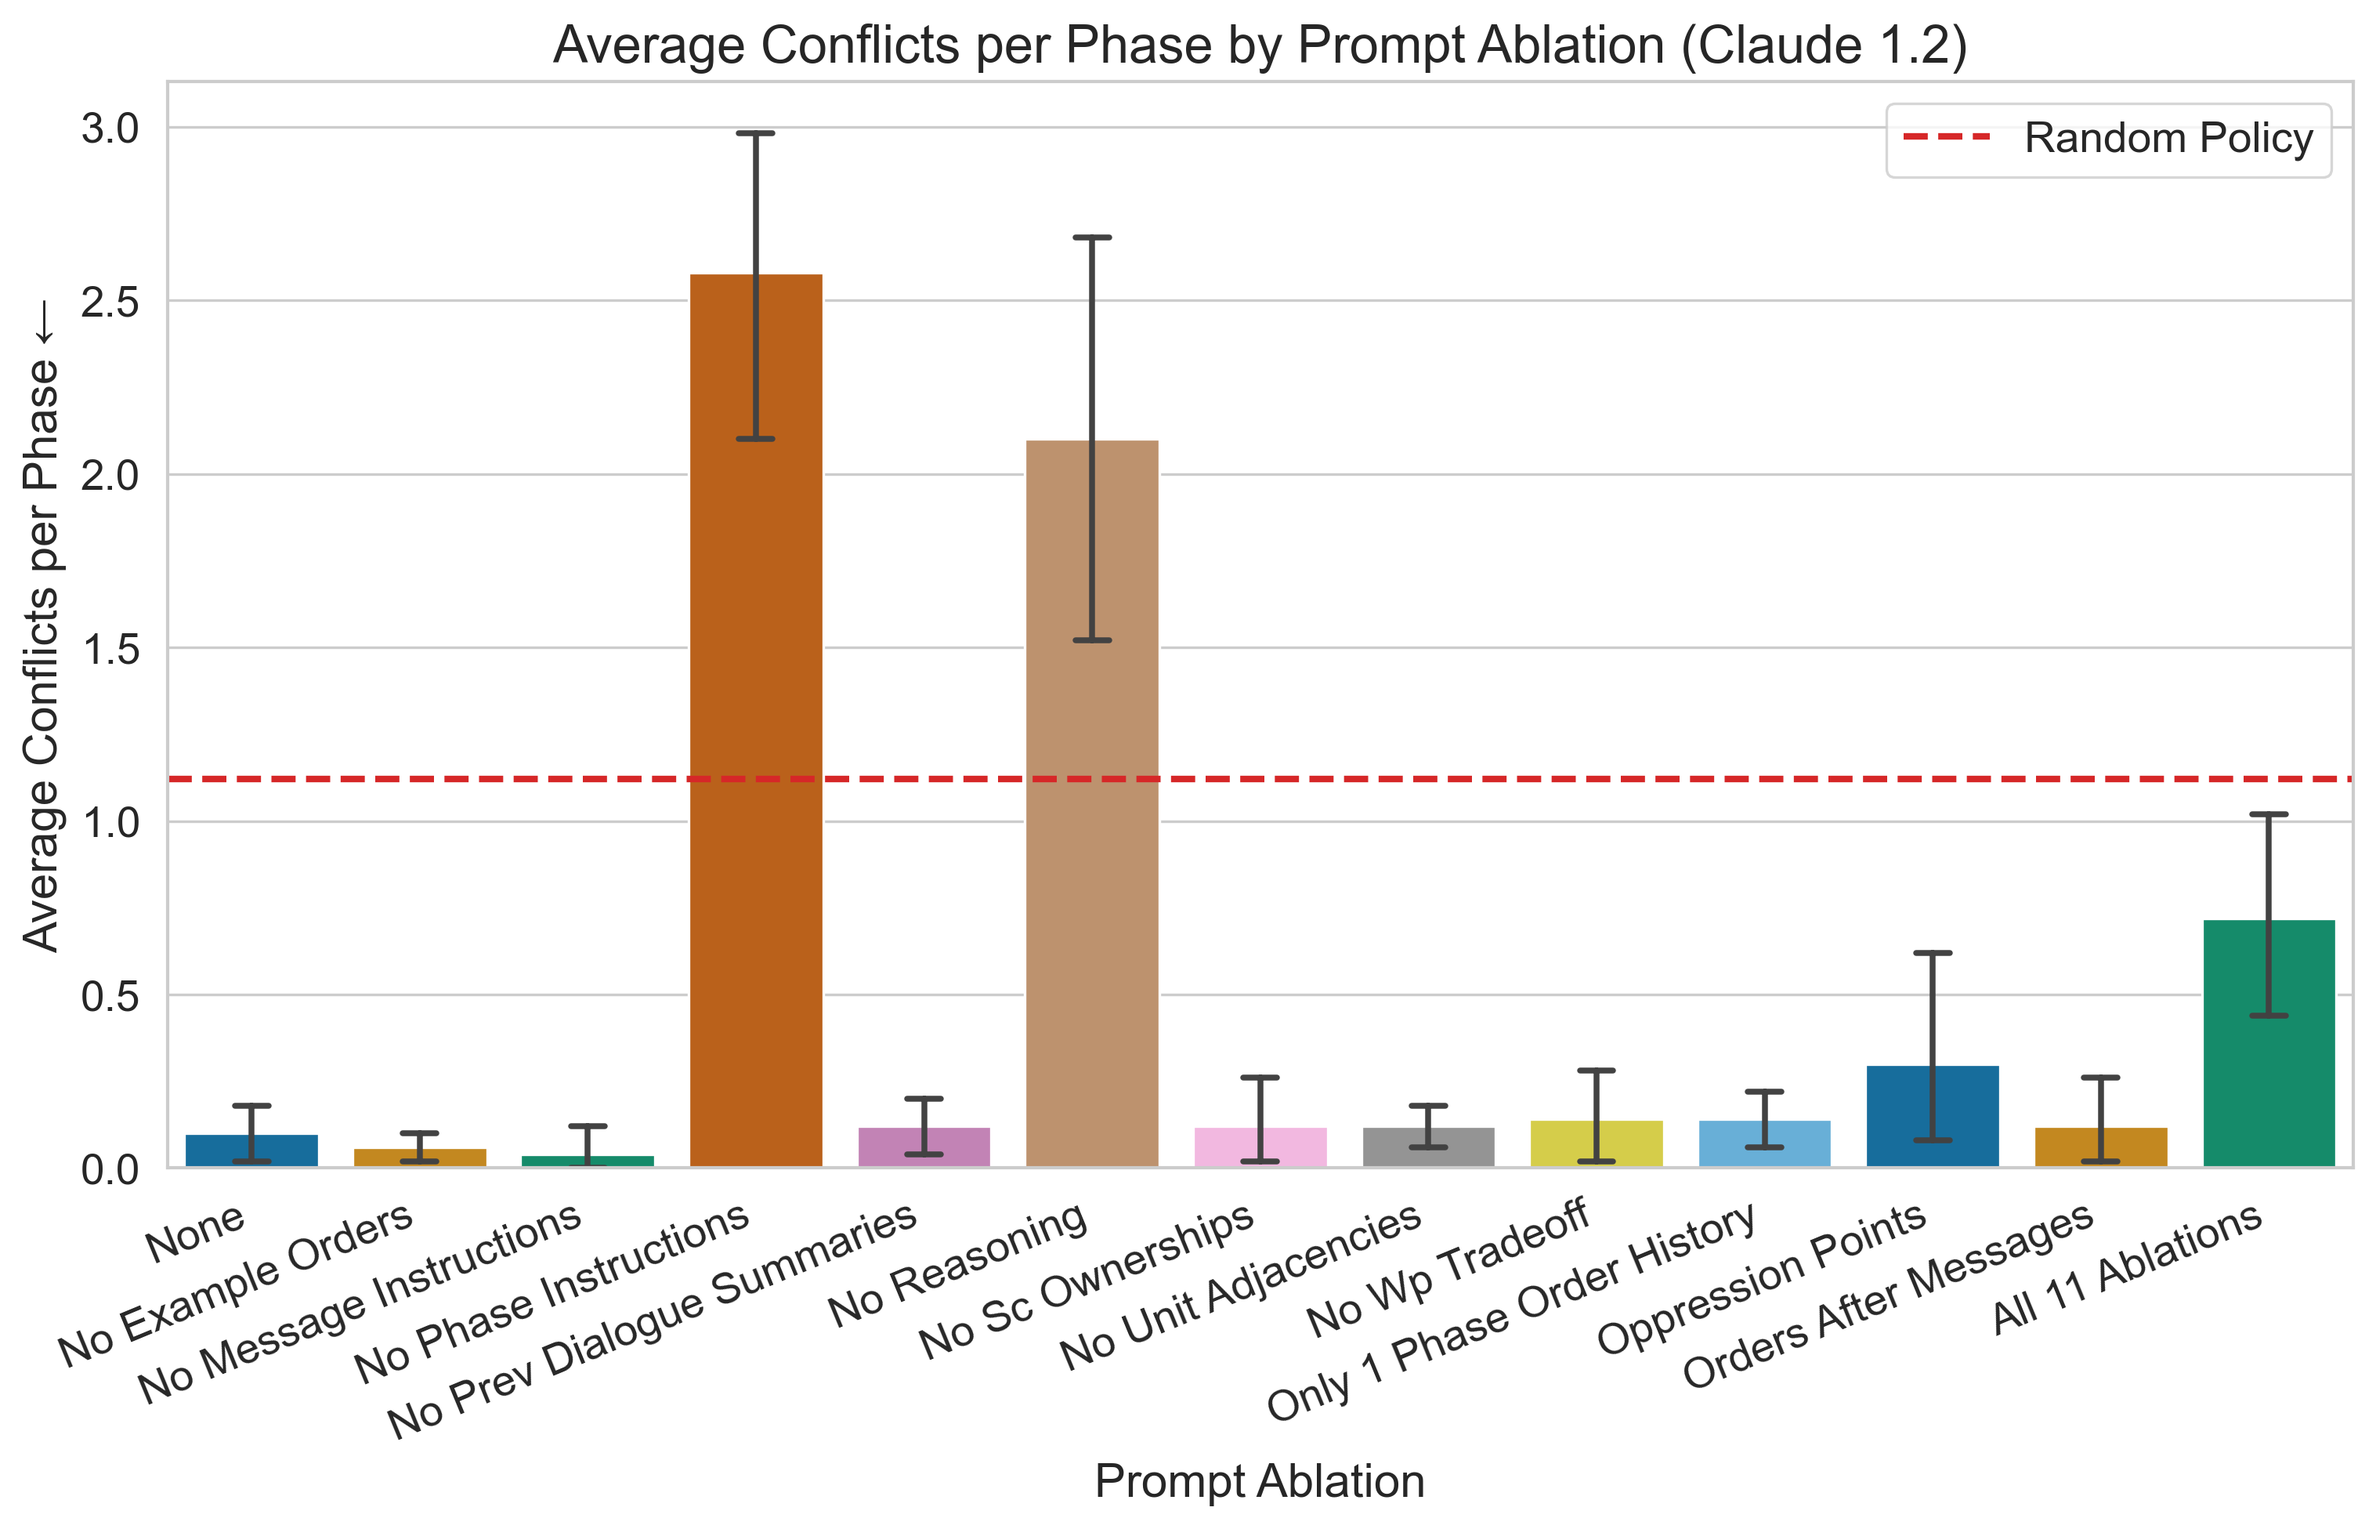
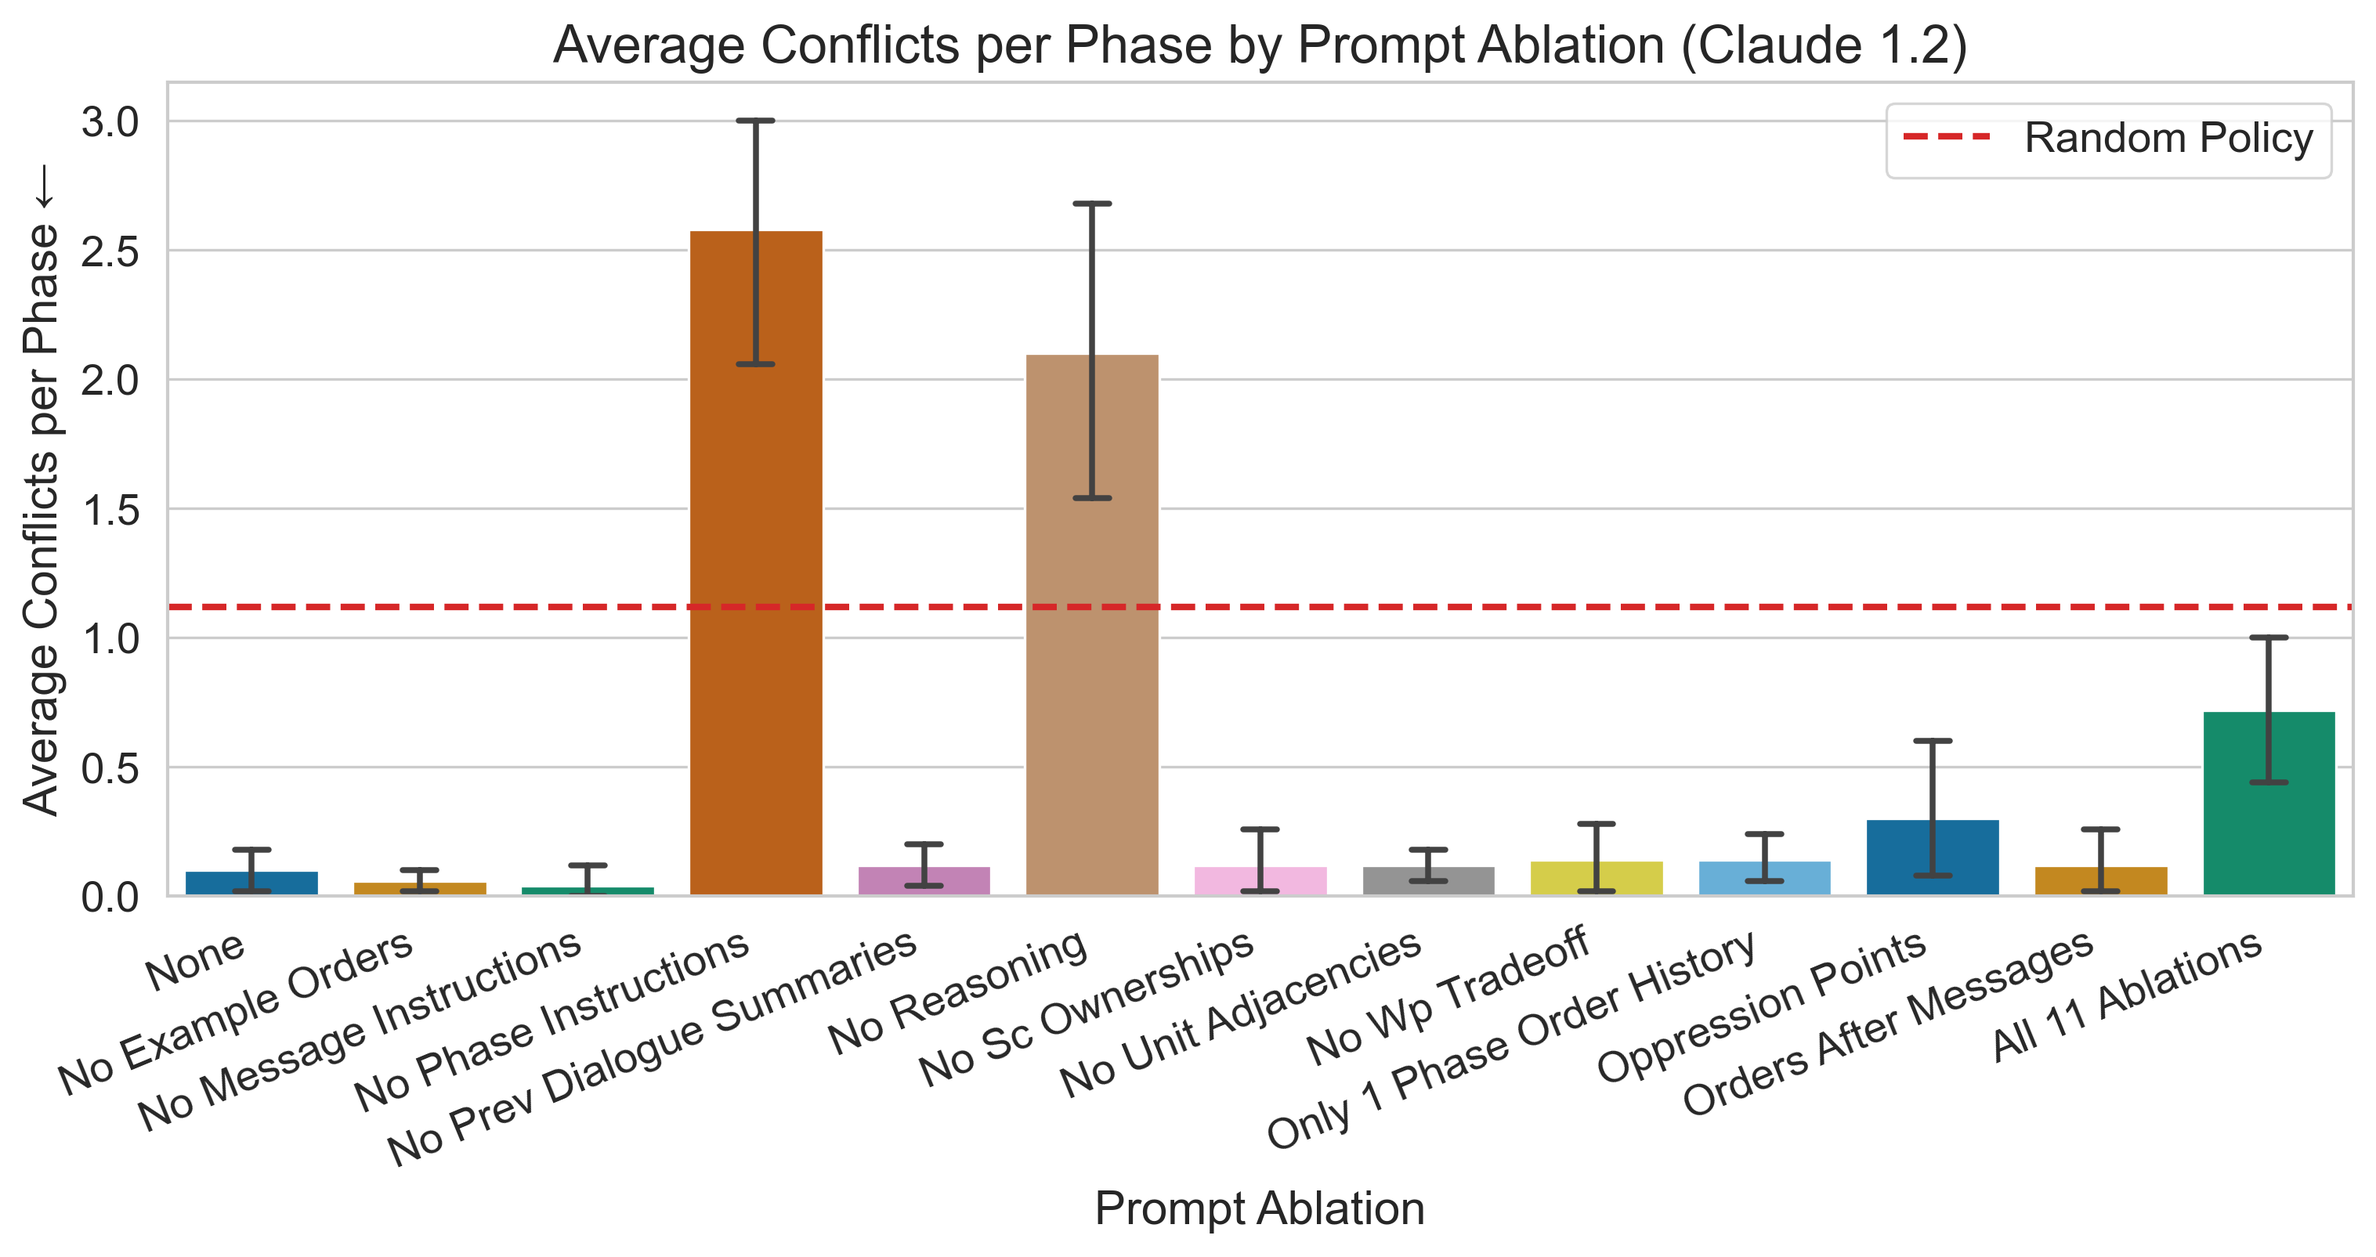
Shorten AR

diff --git a/experiments/charts/prompt_ablation.py b/experiments/charts/prompt_ablation.py
@@ -106,7 +106,7 @@ def main() -> None:
     ]:
         # Initialize
         initialize_plot_bar()
-        plt.rcParams["figure.figsize"] = (12, 6)
+        plt.rcParams["figure.figsize"] = (12, 4.5)
 
         # Plot the welfare scores for each power
         cols_of_interest = [
